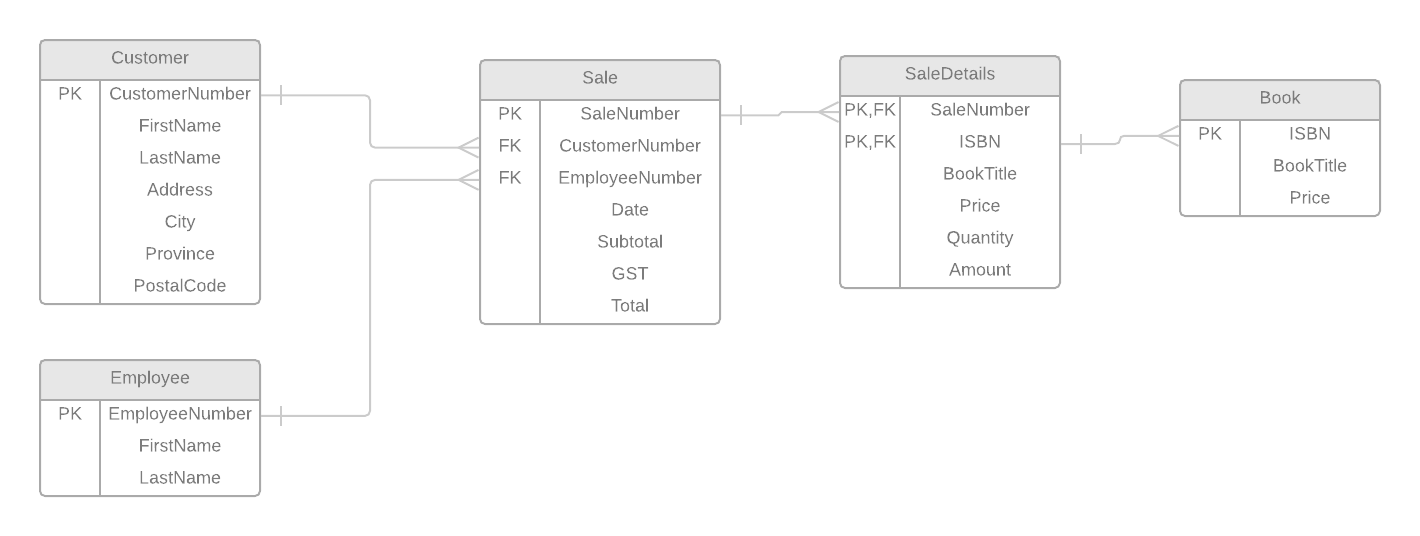
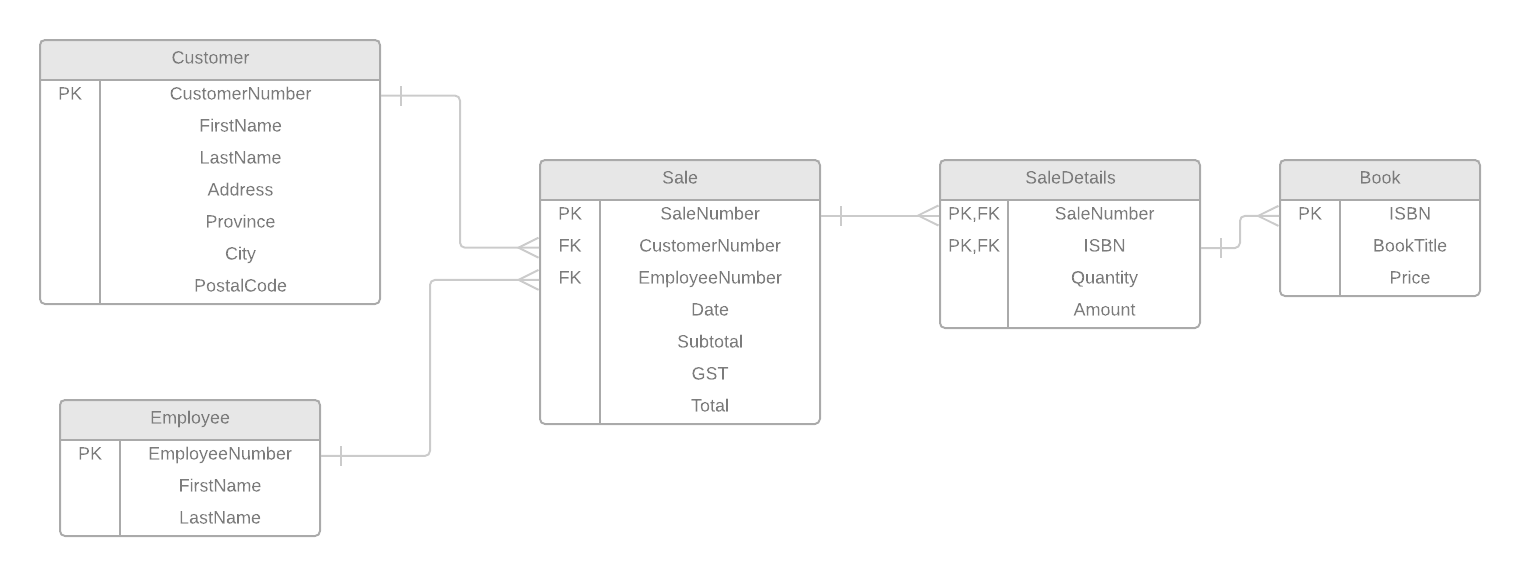
updated things

diff --git a/LAB1-Draft/main.md b/LAB1-Draft/main.md
@@ -44,6 +44,9 @@ The following ERD represents the tables/entities from the **Employee View**
 
 ## BOOK TITLE VIEW
 
+The Employee View and its resulting tables are based on the following form:
+
+![](Book-Title-View-Image.png)
 
 ### 0NF: List all attributes and make them atomic
 
@@ -53,15 +56,15 @@ After performing Zero Normal Form, a new entity was generated: **_Book_**
 
 ### 1NF: Repeating Groups
 
-After performing First Normal Form, a new entity was generated: **_Author_**
+After performing First Normal Form, a new entity was generated: **_BookDetails_**
 
-**Author**: ( <b class="pk"><u class="fk">ISBN</u>, <u class="fk">AuthorCode</u></b>, AuthorFirstName, AuthorLastName )
+**BookDetails:** ( <b class="pk"><u class="fk">ISBN</u>, <u class="fk">AuthorCode</u></b>, AuthorFirstName, AuthorLastName )
 
 ### 2NF: Partial Dependencies
 
-After performing Second Normal Form, a new entity was generated: **_AuthorDetails_**
+After performing Second Normal Form, a new entity was generated: **_Author_**
 
-**AuthorDetails**: ( <b class="pk">AuthorCode</b>, AuthorFirstName, AuthorLastName )
+**Author**: ( <b class="pk">AuthorCode</b>, AuthorFirstName, AuthorLastName )
 
 ### 3NF: Transitive Dependencies
 
@@ -78,19 +81,87 @@ Here are the tables/entities after normalizing the Book Title View:
 
 **Book:** ( <b class="pk">ISBN</b>, <u class="fk">PublisherCode</u>, <u class="fk">CategoryCode</u>, Title, SuggestedSellingPrice, NumberInStock )
 
-**Author:** ( <b class="pk"><u class="fk">ISBN</u>, <u class="fk">AuthorCode</u></b> )
+**BookDetails:** ( <b class="pk"><u class="fk">ISBN</u>, <u class="fk">AuthorCode</u></b> )
 
-**AuthorDetails:** ( <b class="pk">AuthorCode</b>, AuthorFirstName, AuthorLastName )
+**Author:** ( <b class="pk">AuthorCode</b>, AuthorFirstName, AuthorLastName )
 
 **Publisher:** ( <b class="pk">PublisherCode</b>, PublisherName )
 
 **Category:** ( <b class="pk">CategoryCode</b>, CategoryDescription )
 
-
 ### ERD
 The following ERD represents the tables/entities from the **Book Title View**
 
-![]()
+![](Book-Title-View-ERD.png)
+
+## SALE VIEW
+
+The Employee View and its resulting tables are based on the following form:
+
+![](Sale-View-Image.png)
+
+### 0NF: List all attributes and make them atomic
+
+After performing Zero Normal Form, a new entity was generated: **_Sale_**
+
+**Sale:** ( <b class="pk">SaleNumber</b>, Date, CustomerFirstName, CustomerLastName, Address, Province, City, PostalCode, CustomerNumber, EmployeeFirstName, EmployeeLastName, EmployeeNumber, <b class="gr">{</b> ISBN, BookTitle, Price, Quantity, Amount <b class="gr">}</b>, Subtotal, GST, Total )
+
+
+### 1NF: Repeating Groups
+
+After performing First Normal Form, a new entity was generated: **_SaleDetails_**
+
+**SaleDetails:** ( <b class="pk"><u class="fk">SaleNumber</u>, ISBN</b>, BookTitle, Price, Quantity, Amount )
+
+### 2NF: Partial Dependencies
+
+After performing Third Normal Form, a new entity was generated: **_Book_**
+
+**Book:** ( <b class="pk">ISBN</b>, BookTitle, Price )
+
+### 3NF: Transitive Dependencies
+
+After performing Third Normal Form, two new entities were generated: **_Customer_** & **_Employee_**
+
+**Customer:** ( <b class="pk">CustomerNumber</b>, CustomerFirstName, CustomerLastName, Address, Province, City, PostalCode )
+
+**Employee:** ( <b class="pk">Employee</b>, EmployeeFirstName, EmployeeLastName )
+
+
+### Entities After 3NF:
+
+**Sale:** ( <b class="pk">SaleNumber</b>, <u class="fk">CustomerNumber</u>, <u class="fk">EmployeeNumber</u>, Date, Subtotal, GST, Total)
+
+**SaleDetails:** ( <b class="pk"><u class="fk">SaleNumber</u>, <u class="fk">ISBN</u></b>, Quantity, Amount )
+
+**Book:** ( <b class="pk">ISBN</b>, BookTitle, Price )
+
+**Customer:** ( <b class="pk">CustomerNumber</b>, CustomerFirstName, CustomerLastName, Address, Province, City, PostalCode )
+
+**Employee:** ( <b class="pk">EmployeeNumber</b>, EmployeeFirstName, EmployeeLastName )
+
+## ERD
+The following ERD represents the tables/entities from the **Sale View**
+
+![](Sale-View-ERD.png)
+
+## Merged Entities
+
+To avoid duplicated entities, we merged entities with the same entity name and same primary/foreign keys.
+
+Here are the following merged entities:
+
+- **Employee** from Employee View and **Employee** from Sale View
+    - after merging the two tables, a single **Employee** entity was generated:
+
+        **Employee:** ( <b class="pk">EmployeeNumber</b>, SIN, FirstName, LastName, Address, City, PostalCode, HomePhone, WorkPhone, Email )
+
+- **Book** from Book Title View and **Book** from Sale View
+    - after merging the two tables, a single **Book** entity was generated:
+
+        **Book:** ( <b class="pk">ISBN</b>, <u class="fk">PublisherCode</u>, <u class="fk">CategoryCode</u>, BookTitle, SuggestedRetailPrice, NumberInStock)
+
+## Final Database for Books Galore
 
 
 
